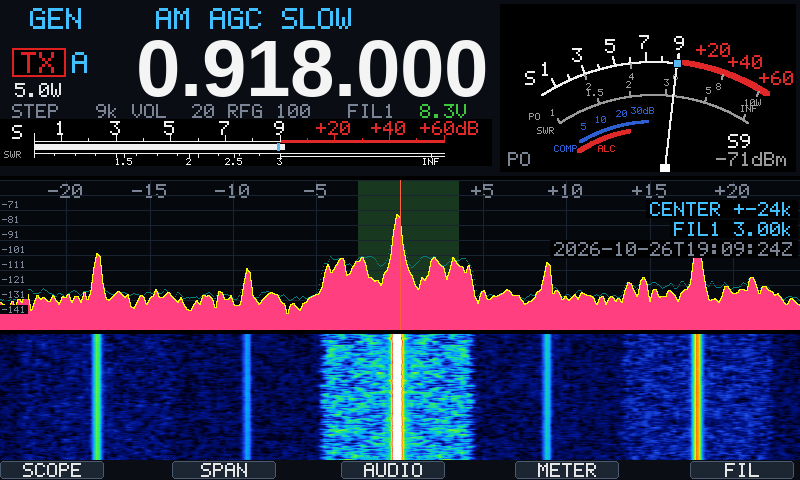
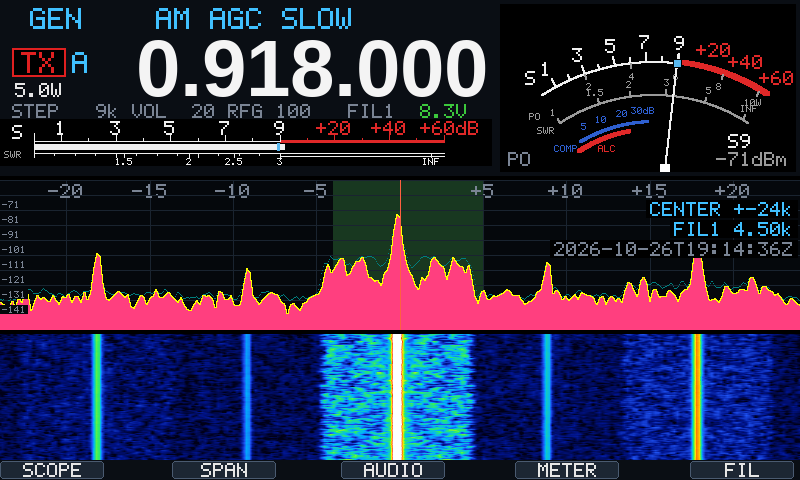
docs: AM renders with FIL1 at +-4.5 kHz (a full 9 kHz MW channel)

Changed region(s): [[0.5625, 0.375, 0.625, 0.625], [0.4062, 0.375, 0.4688, 0.5625], [0.9062, 0.4688, 0.9688, 0.5312]]

diff --git a/README.md b/README.md
@@ -54,7 +54,8 @@ the TX frequency and mode in amber at the top left. RIT / XIT show the same way.
 
 ![x6100_trx AM on 918 kHz](docs/images/x6100_trx_am.png)
 
-AM on 918 kHz (MW, 9 kHz step, ±24 kHz): the receiver sits 500 Hz above the dial, so
+AM on 918 kHz (MW, 9 kHz step, ±24 kHz, FIL1 opened to ±4.5 kHz: a full 9 kHz channel;
+the AM default is ±3 kHz): the receiver sits 500 Hz above the dial, so
 the carrier stays clear of the zero-IF DC notch that distorts AM tuned exactly on it;
 the dial, the VFO line and the carrier stay on 918.000 (render, MW stations every 9 kHz).
 
